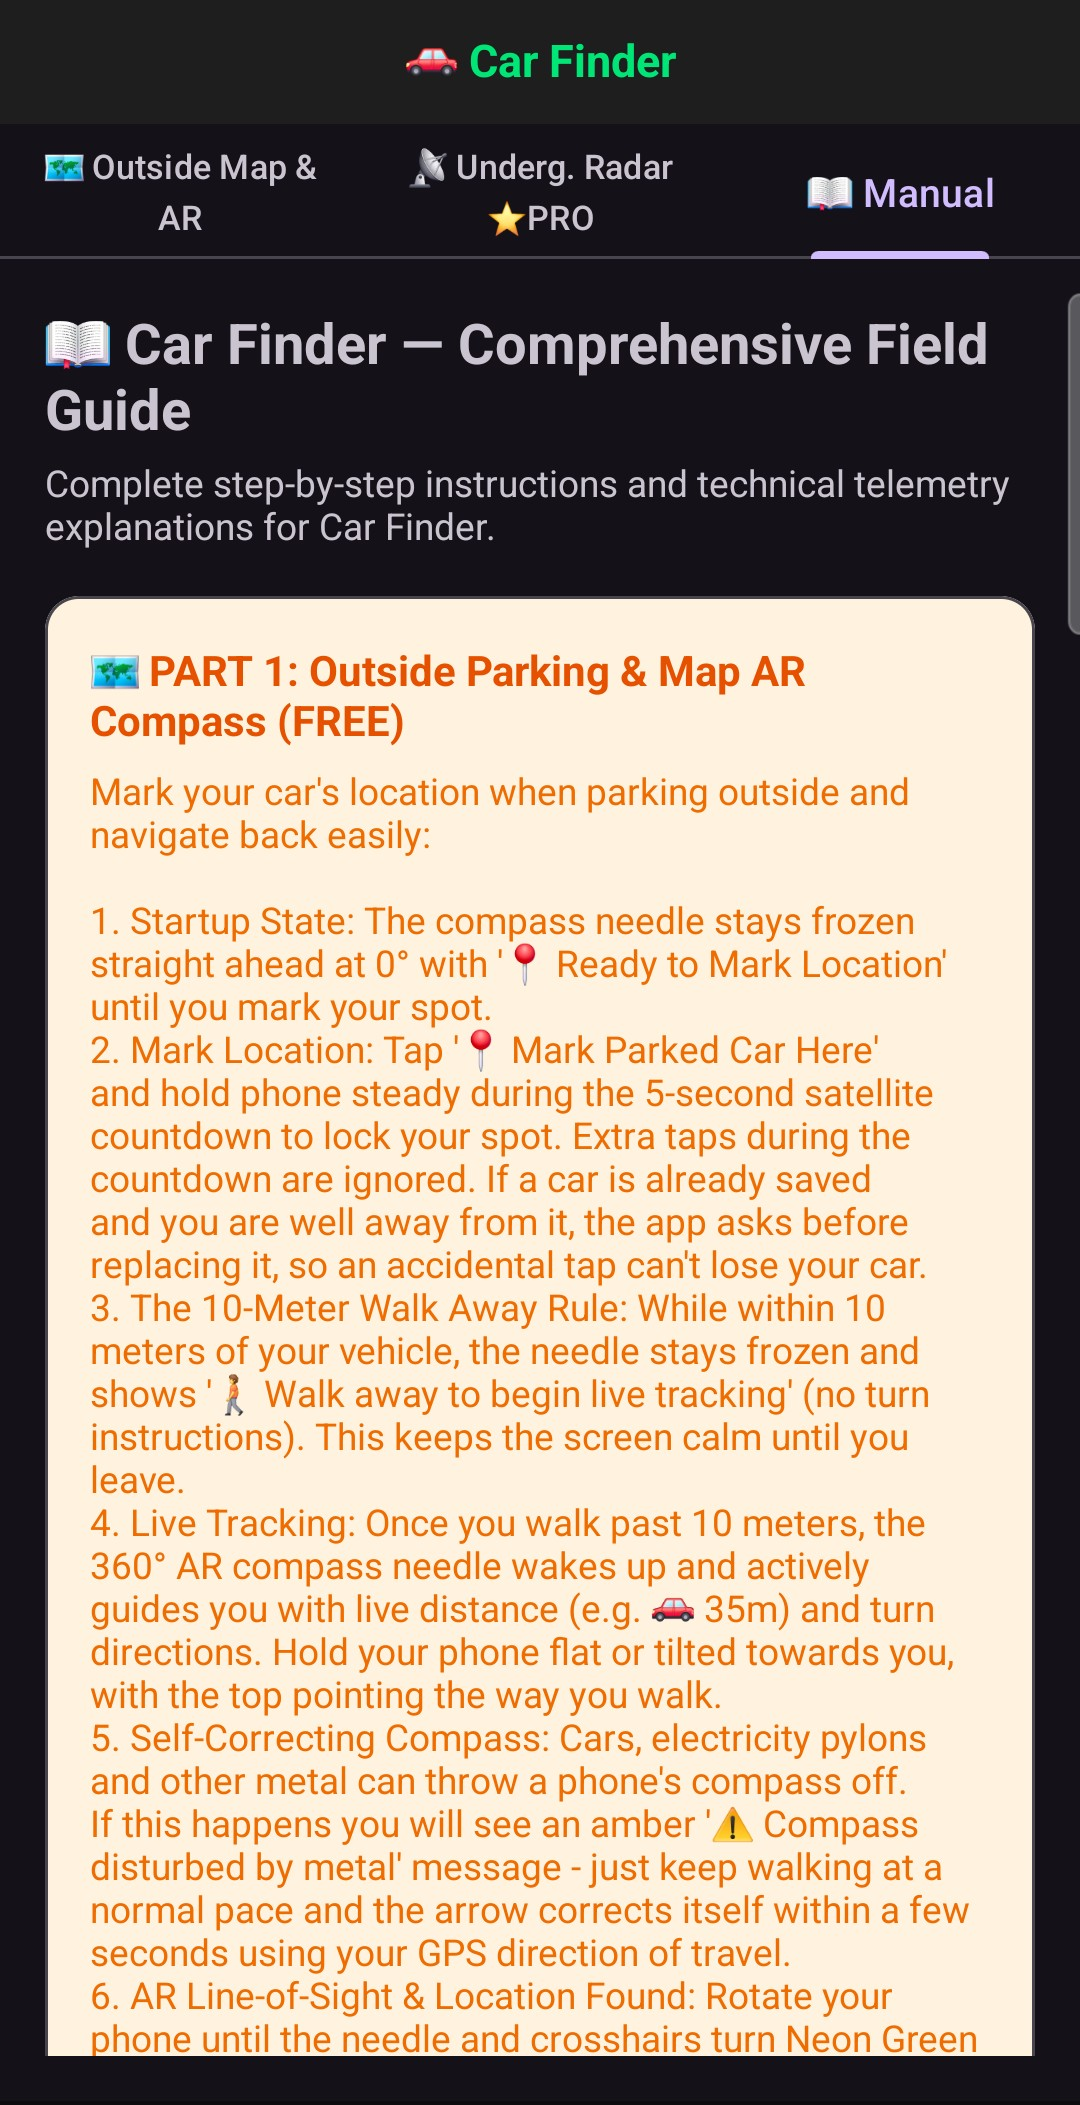
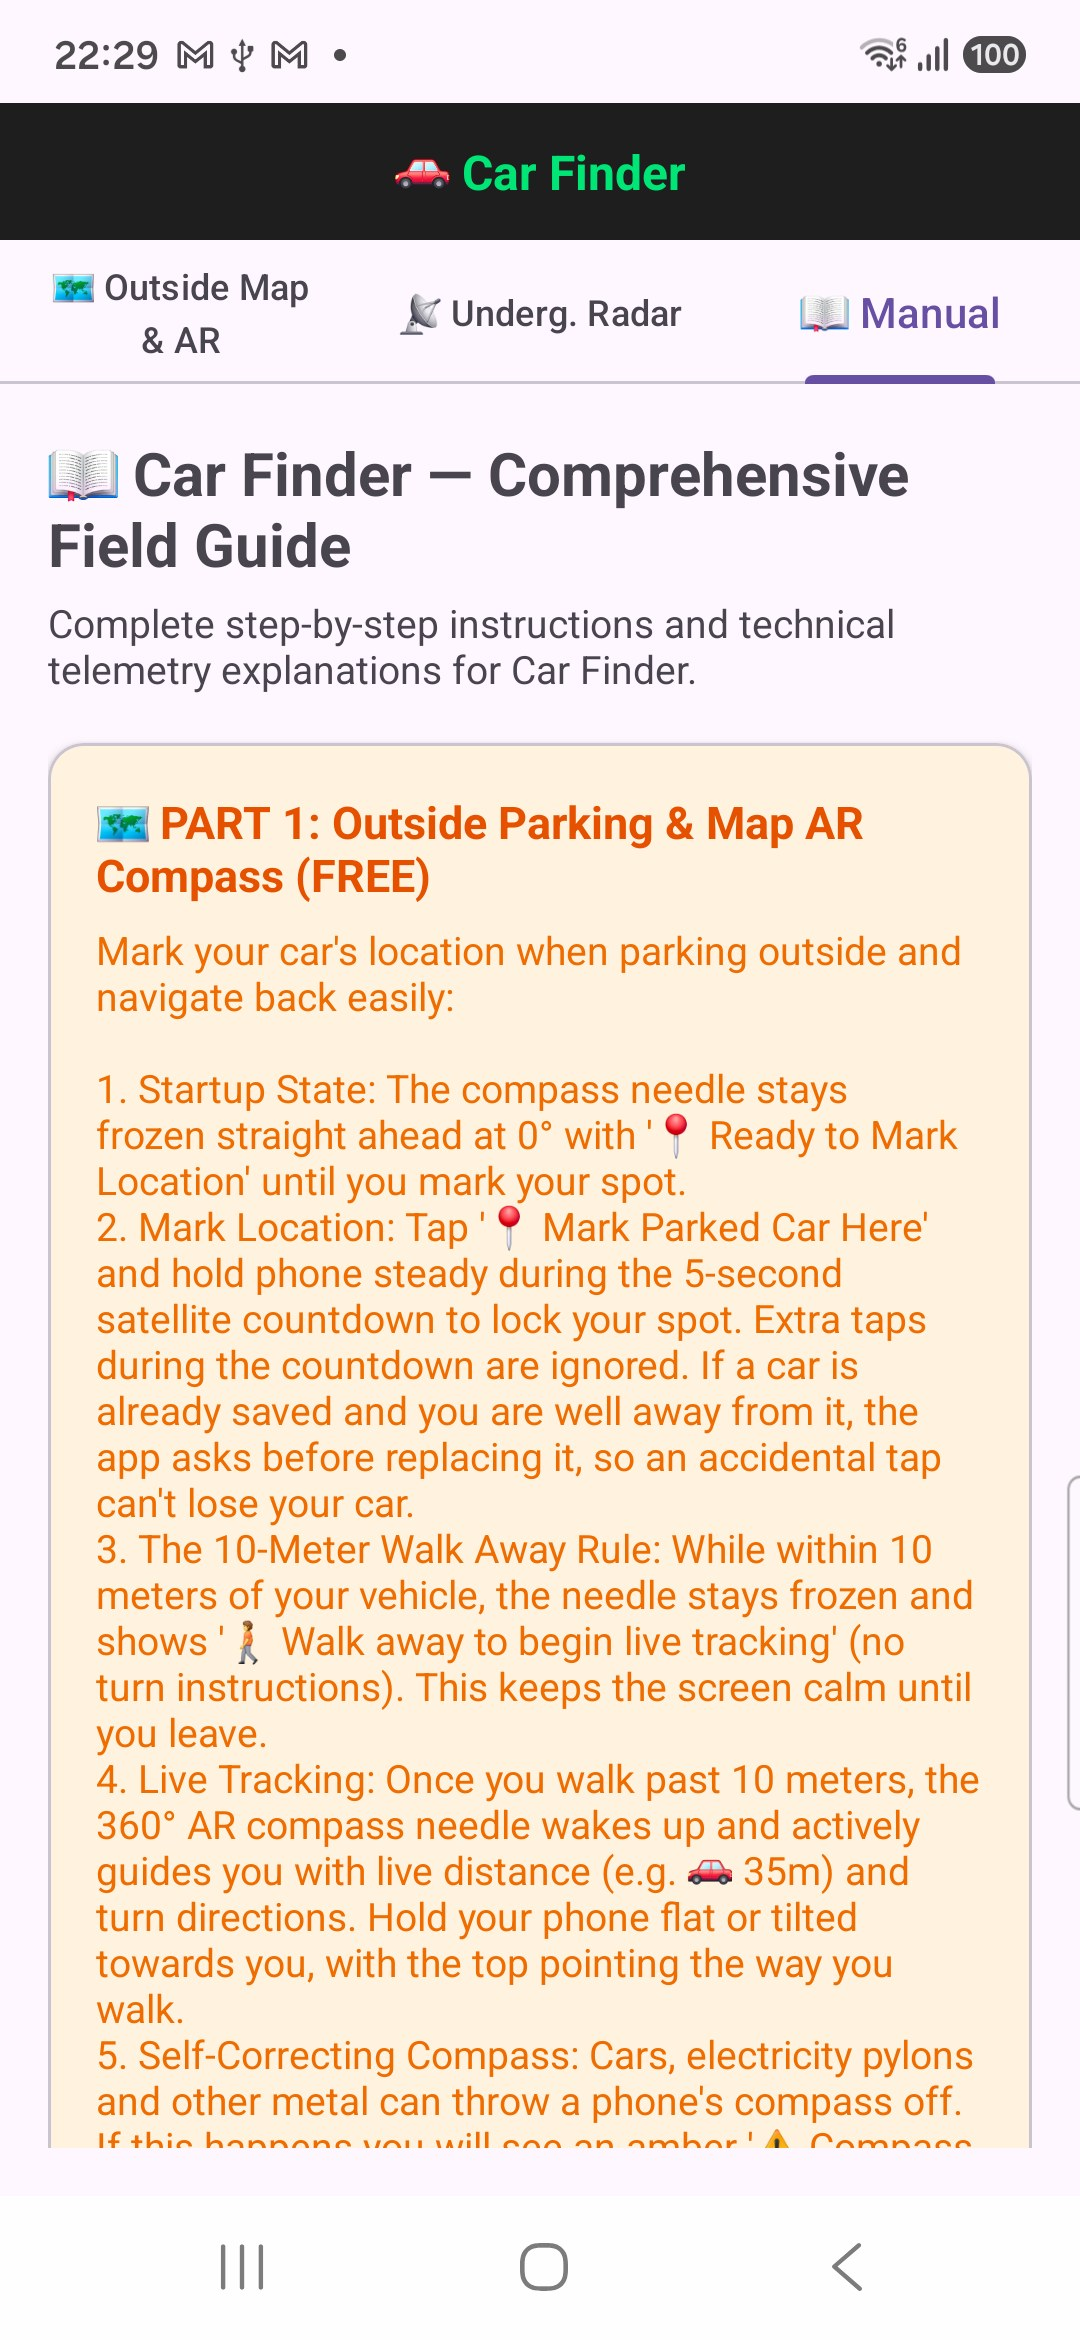
Car Finder page: new screenshots from 2.11 (map, radar parking check, manual), captions match

diff --git a/car-finder/index.html b/car-finder/index.html
@@ -150,11 +150,11 @@
     <div class="screenshot-grid">
         <div class="screenshot-card">
             <img src="map-ar.jpg" alt="Outside Map &amp; AR">
-            <p><strong>1. Outside Map &amp; AR</strong><br>Mark parked car, giant distance &amp; line-of-sight.</p>
+            <p><strong>1. Outside Map &amp; AR</strong><br>Mark your parked car; the compass and distance guide you back.</p>
         </div>
         <div class="screenshot-card">
             <img src="radar.jpg" alt="Underground Radar">
-            <p><strong>2. Underground Radar</strong><br>Radar scope, Wi-Fi match &amp; level check.</p>
+            <p><strong>2. Underground Radar</strong><br>Parking check: your level note, height and Wi-Fi match.</p>
         </div>
         <div class="screenshot-card">
             <img src="manual.jpg" alt="User Manual">
